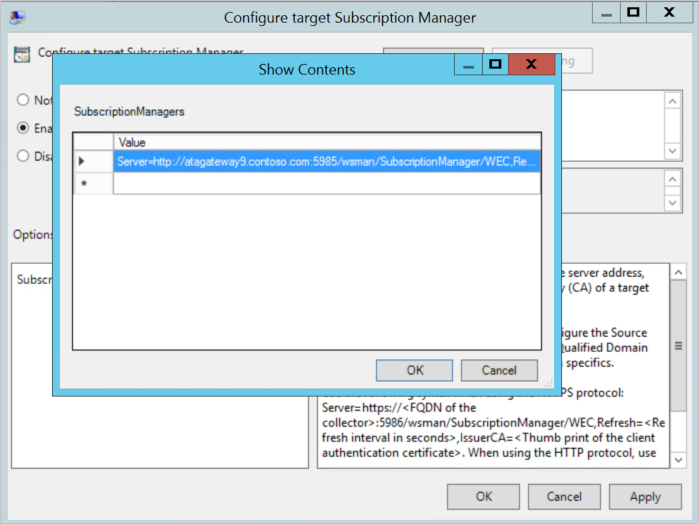
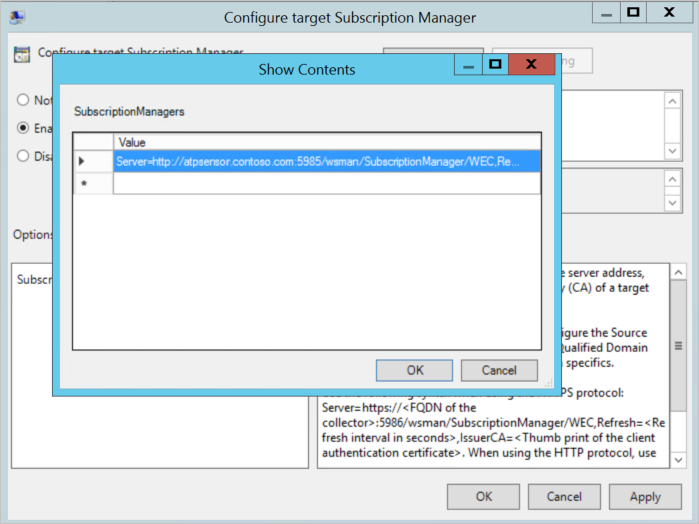
continued SFI

Changed region(s): [[0.1502, 0.2748, 0.7511, 0.3359]]

diff --git a/ATADocs/configure-event-collection.md b/ATADocs/configure-event-collection.md
@@ -66,7 +66,7 @@ After adding the **Network Service** to the **Event Log Readers** group, reboot 
 
    3. Under **SubscriptionManagers**, enter the following value and select **OK**: `Server=http://<fqdnATAGateway\>:5985/wsman/SubscriptionManager/WEC,Refresh=10`
 
-        *(For example: Server=`http://atagateway9.contoso.com:5985/wsman/SubscriptionManager/WEC,Refresh=10`)*
+        *(For example: Server=`http://atagateway.contoso.com:5985/wsman/SubscriptionManager/WEC,Refresh=10`)*
 
         ![Configure target subscription image.](media/wef-2-config-target-sub-manager.png)
 
